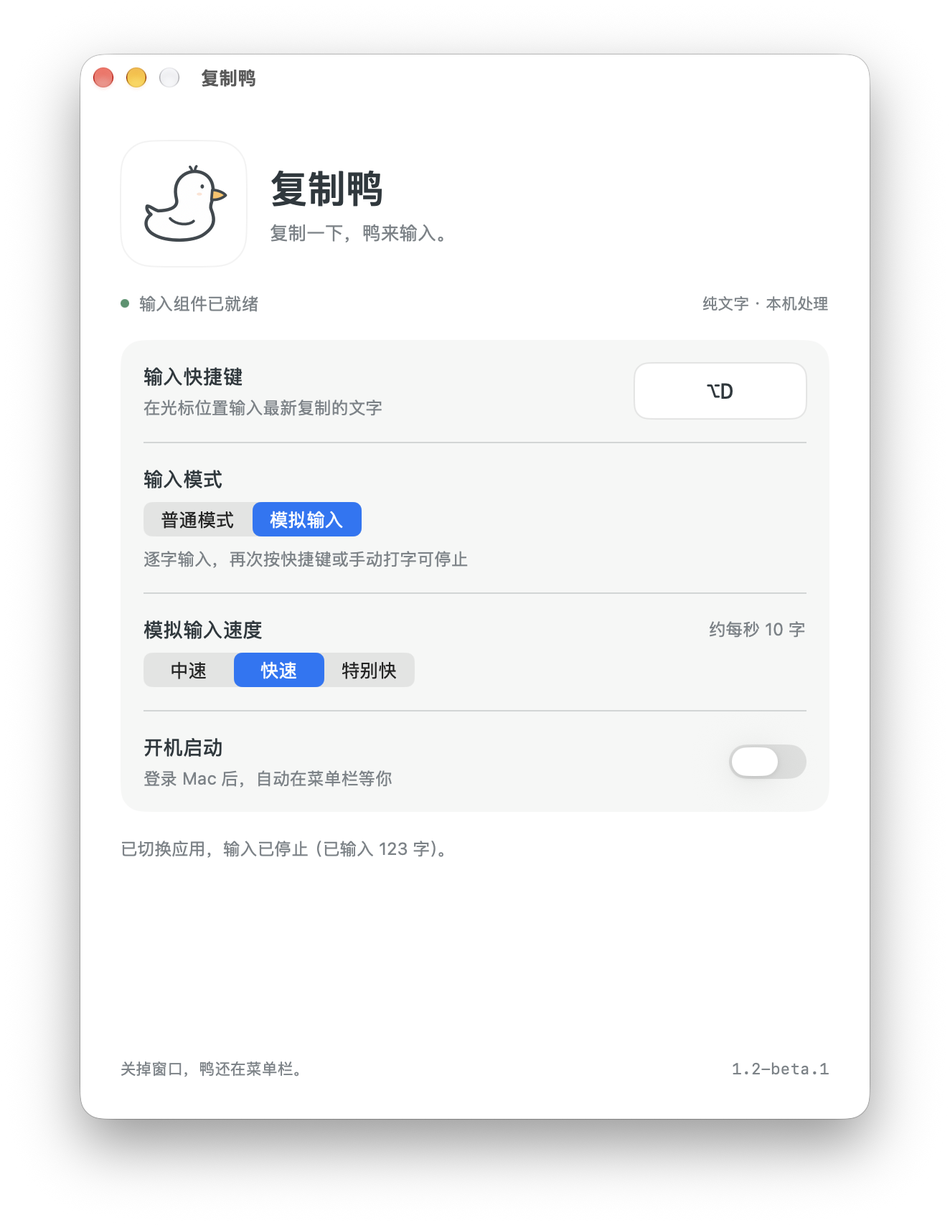
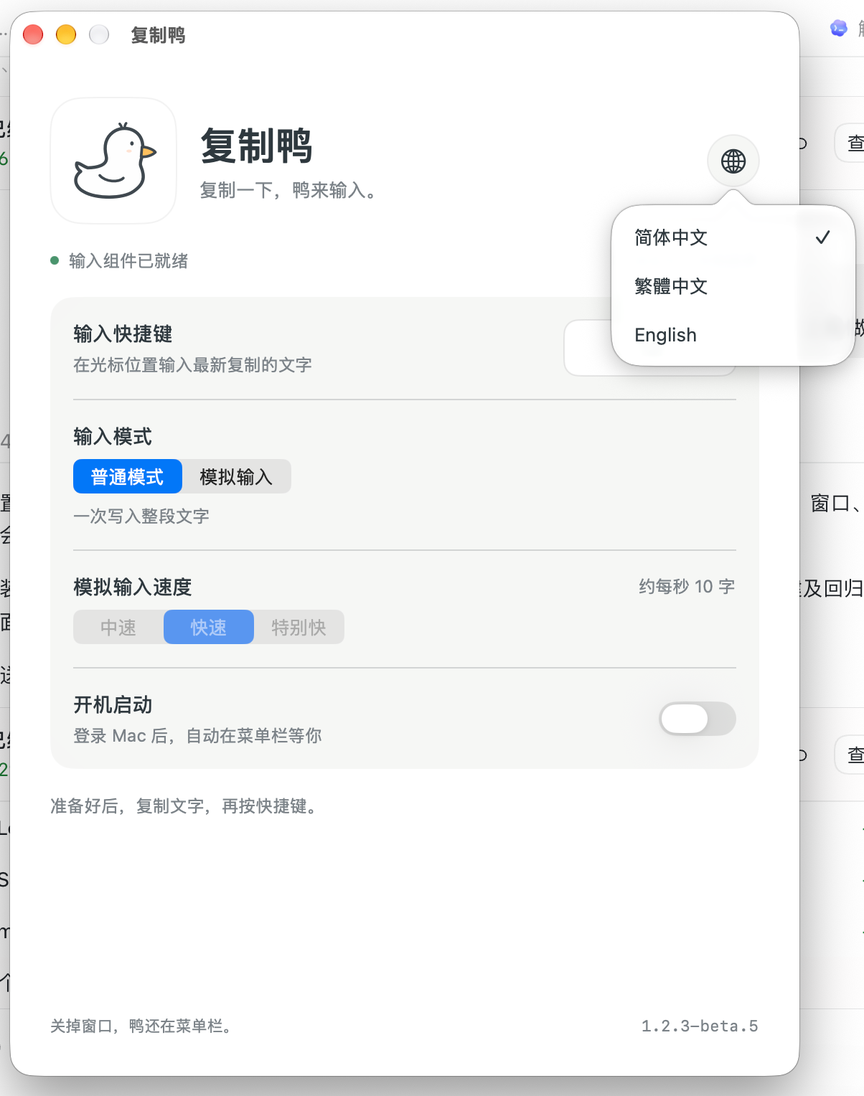
Release CopyDuck 1.2.3

diff --git a/docs/en/index.html b/docs/en/index.html
@@ -6,15 +6,19 @@
 <link rel="canonical" href="https://yuanruoyu515.github.io/CopyDuck/en/index.html"><link rel="alternate" hreflang="zh-Hans" href="https://yuanruoyu515.github.io/CopyDuck/index.html"><link rel="alternate" hreflang="zh-Hant" href="https://yuanruoyu515.github.io/CopyDuck/zh-Hant/index.html"><link rel="alternate" hreflang="en" href="https://yuanruoyu515.github.io/CopyDuck/en/index.html"><link rel="icon" href="../assets/favicon.png"><link rel="stylesheet" href="../style.css"></head>
 <body><a class="skip" href="#main">Skip to content</a>
 <header><div class="top wrap"><a class="brand" href="../en/index.html"><img src="../assets/favicon.png" alt="" width="42" height="42">CopyDuck</a><nav class="language" aria-label="Choose language"><a href="../index.html" lang="zh-Hans" hreflang="zh-Hans">简体中文</a><a href="../zh-Hant/index.html" lang="zh-Hant" hreflang="zh-Hant">繁體中文</a><a href="../en/index.html" lang="en" hreflang="en" aria-current="page">English</a></nav></div></header>
-<main id="main" class="wrap"><aside class="compatibility-warning" role="note"><strong>⚠ Compatibility and resource usage warning</strong><p>Currently verified only on macOS 27.0.1. Compatibility with macOS versions earlier than 27 is not guaranteed. A user reported extremely high memory and CPU usage on macOS 26 with a version released before the startup fix; the newer version has not yet been verified on that system. If this occurs, quit CopyDuck; if it is unresponsive, end its process in Activity Monitor.</p></aside><section class="hero"><div><p class="eyebrow">A little duck for your Mac</p><h1>Copy it.<br>Let the duck type.</h1><p class="lead">💢 An input field blocks pasting or distinguishes pasted text from regular input, leaving you to type everything again?</p><p class="lead">🐤 CopyDuck is a lightweight macOS menu bar utility. Press a shortcut to insert plain text from your clipboard into the active input field through the system input method. It helps with some websites and apps that disable pasting or intercept paste shortcuts while still supporting system input methods, saving you from retyping long passages. It supports Chinese, English, line breaks and emoji. All text processing happens locally on your Mac, with no uploads or clipboard history.</p><div class="actions"><a class="button primary" href="https://github.com/yuanruoyu515/CopyDuck/releases/download/v1.2.2/CopyDuck-1.2.2-arm64.dmg">Download 1.2.2 <span aria-hidden="true">↓</span></a><a class="button" href="https://github.com/yuanruoyu515/CopyDuck">View source <span aria-hidden="true">↗</span></a></div><p class="compatibility">Apple Silicon · Minimum build target: macOS 14 · Verified only on macOS 27.0.1</p></div>
+<main id="main" class="wrap"><aside class="compatibility-warning" role="note"><strong>⚠ Compatibility and resource usage warning</strong><p>Currently verified only on macOS 27.0.1. Compatibility with macOS versions earlier than 27 is not guaranteed. A user reported extremely high memory and CPU usage on macOS 26 with a version released before the startup fix; the newer version has not yet been verified on that system. If this occurs, quit CopyDuck; if it is unresponsive, end its process in Activity Monitor.</p></aside><section class="hero"><div><p class="eyebrow">A little duck for your Mac</p><h1>Copy it.<br>Let the duck type.</h1><p class="lead">💢 An input field blocks pasting or distinguishes pasted text from regular input, leaving you to type everything again?</p><p class="lead">🐤 CopyDuck is a lightweight macOS menu bar utility. Press a shortcut to insert plain text from your clipboard into the active input field through the system input method. It helps with some websites and apps that disable pasting or intercept paste shortcuts while still supporting system input methods, saving you from retyping long passages. It supports Chinese, English, line breaks and emoji. All text processing happens locally on your Mac, with no uploads or clipboard history.</p><div class="actions"><a class="button primary" href="https://github.com/yuanruoyu515/CopyDuck/releases/download/v1.2.3/CopyDuck-1.2.3-arm64.dmg">Download 1.2.3 <span aria-hidden="true">↓</span></a><a class="button" href="https://github.com/yuanruoyu515/CopyDuck">View source <span aria-hidden="true">↗</span></a></div><p class="compatibility">Apple Silicon · Minimum build target: macOS 14 · Verified only on macOS 27.0.1</p></div>
 <div class="duck-stage"><div class="duck-card"><img src="../assets/duck.png" alt="" width="512" height="512" fetchpriority="high"></div><div class="shortcut"><span>Illustration · Default shortcut</span><div aria-label="Control Option V"><kbd>⌃</kbd> <kbd>⌥</kbd> <kbd>V</kbd></div></div><p class="example-text">Copy text → Click an input field → Press your shortcut</p></div></section>
 <section class="section"><div class="intro"><h2>💦 The inspiration</h2><p>The author was struggling to finish assignments in AP CSA when Albert was configured to block pasting. The workaround was to keep changing the input method’s text shortcuts to get the text into the field, bit by bit… That frustration led to CopyDuck.</p></div></section>
-<section class="section"><div class="intro"><h2>Give your clipboard an input method.</h2><p>CopyDuck appears under Simplified Chinese input sources. When you press the shortcut, it reads the latest clipboard text, temporarily selects its input source, inserts the whole text at once or types it character by character, then restores your previous input method. Copying something else while typing does not change the current request.</p></div><ol class="flow"><li><span class="number">01</span><h3>Copy</h3><p>Copy some plain text.</p></li><li><span class="number">02</span><h3>Focus</h3><p>Click where you want to type.</p></li><li><span class="number">03</span><h3>Insert</h3><p>Press your shortcut. Let the duck type.</p></li></ol><div class="features"><article><h3>Your shortcut</h3><p>Start with ⌃⌥V, or choose your own in Settings.</p></article><article><h3>A home in the menu bar</h3><p>No Dock icon. Closing Settings keeps the duck running.</p></article><article><h3>Optional launch at login</h3><p>Enable it when you want CopyDuck ready after login.</p></article><article><h3>Text stays on your Mac</h3><p>Reads the clipboard only when triggered. No history, no network connection.</p></article><article><h3>Simulated typing</h3><p>Switch between Normal and Simulated Typing in Settings or the menu bar. Medium, Fast and Very Fast average about 5, 10 and 20 characters per second, with pauses at punctuation and line breaks. Mode and speed are remembered; speed changes apply to the next request. Press the shortcut again, type manually or change input focus to stop. Text already entered is kept.</p></article><article><h3>Input reliability and resource cleanup</h3><p>Improve first-trigger behavior in Word and prevent unintended typing cancellation. Release the Settings view on close; clear text references, callbacks and scheduled tasks when input finishes or is cancelled.</p></article></div></section>
-<section class="section screenshots"><h2>A little duck, in real use.</h2><p class="intro">The Settings and menu bar screenshots were supplied by the maintainer while testing 1.2-beta.1 and show the new 1.2 features. The interface is in Simplified Chinese; ⌥D is a custom shortcut, while the default is ⌃⌥V.</p><div class="screenshot-grid"><figure class="screenshot"><a href="../assets/settings.png"><img src="../assets/settings.png" alt="Settings window" width="1324" height="1708" loading="lazy"></a><figcaption><h3>Settings window</h3><p>Switch input modes and choose Medium, Fast or Very Fast in Settings, alongside shortcut and launch-at-login options.</p></figcaption></figure><figure class="screenshot"><a href="../assets/input-sources.png"><img src="../assets/input-sources.png" alt="System input sources" width="1704" height="1474" loading="lazy"></a><figcaption><h3>System input sources</h3><p>CopyDuck appears in the list of installed system input sources.</p></figcaption></figure><figure class="screenshot"><a href="../assets/menu-bar.png"><img src="../assets/menu-bar.png" alt="Menu bar menu" width="948" height="528" loading="lazy"></a><figcaption><h3>Menu bar menu</h3><p>Open the duck menu to switch Normal / Simulated Typing and choose one of three speeds in the submenu.</p></figcaption></figure></div></section>
+<section class="section"><div class="intro"><h2>Give your clipboard an input method.</h2><p>CopyDuck appears under Simplified Chinese input sources. When you press the shortcut, it reads the latest clipboard text, temporarily selects its input source, inserts the whole text at once or types it character by character, then restores your previous input method. Copying something else while typing does not change the current request.</p></div><ol class="flow"><li><span class="number">01</span><h3>Copy</h3><p>Copy some plain text.</p></li><li><span class="number">02</span><h3>Focus</h3><p>Click where you want to type.</p></li><li><span class="number">03</span><h3>Insert</h3><p>Press your shortcut. Let the duck type.</p></li></ol><div class="features"><article><h3>Your shortcut</h3><p>Start with ⌃⌥V, or choose your own in Settings.</p></article><article><h3>A home in the menu bar</h3><p>No Dock icon. Closing Settings keeps the duck running.</p></article><article><h3>Optional launch at login</h3><p>Enable it when you want CopyDuck ready after login.</p></article><article><h3>Text stays on your Mac</h3><p>Reads the clipboard only when triggered. No history, no network connection.</p></article><article><h3>Simulated typing</h3><p>Switch between Normal and Simulated Typing in Settings or the menu bar. Medium, Fast and Very Fast average about 5, 10 and 20 characters per second, with pauses at punctuation and line breaks. Mode and speed are remembered; speed changes apply to the next request. Press the shortcut again, type manually or change input focus to stop. Text already entered is kept.</p></article><article><h3>Input reliability and resource cleanup</h3><p>Improve first-trigger behavior in Word and prevent unintended typing cancellation. Release the Settings view on close; clear text references, callbacks and scheduled tasks when input finishes or is cancelled.</p></article><article><h3>Three interface languages</h3><p>Use the globe in the top right of Settings to switch languages. Your choice is saved.</p></article></div></section>
+<section class="section screenshots"><h2>A little duck, in real use.</h2><p class="intro">The maintainer supplied the Settings screenshot while testing 1.2.3-beta.5; it shows the language switcher in the top right. The other screenshots are from 1.2-beta.1. ⌥D is a custom shortcut; the default is ⌃⌥V.</p><div class="screenshot-grid"><figure class="screenshot"><a href="../assets/settings.png"><img src="../assets/settings.png" alt="Settings window" width="1204" height="1528" loading="lazy"></a><figcaption><h3>Settings window</h3><p>Click the globe in the top right to choose Simplified Chinese, Traditional Chinese or English. Settings also includes input mode, speed, shortcut and launch-at-login controls.</p></figcaption></figure><figure class="screenshot"><a href="../assets/input-sources.png"><img src="../assets/input-sources.png" alt="System input sources" width="1704" height="1474" loading="lazy"></a><figcaption><h3>System input sources</h3><p>CopyDuck appears in the list of installed system input sources.</p></figcaption></figure><figure class="screenshot"><a href="../assets/menu-bar.png"><img src="../assets/menu-bar.png" alt="Menu bar menu" width="948" height="528" loading="lazy"></a><figcaption><h3>Menu bar menu</h3><p>Open the duck menu to switch Normal / Simulated Typing and choose one of three speeds in the submenu.</p></figcaption></figure></div></section>
 <section class="section install"><div><h2>Three steps to get started.</h2><p>Apple Silicon · Minimum build target: macOS 14 · Verified only on macOS 27.0.1</p></div><div><ol><li>Download the DMG and drag “复制鸭” into Applications.</li><li>Open CopyDuck and click &quot;Install input component&quot; on first use.</li><li>Once &quot;Input component ready&quot; appears, copy text, focus a field and press your shortcut.</li></ol><p class="install-note">Opening a newer build automatically updates and starts the input component, preserving your shortcut and launch-at-login setting.</p></div></section>
-<section class="section" id="downloads"><h2>Latest and previous versions.</h2><p class="intro">1.2.2 fixes startup process failures and repeated launches that cause excessive resource usage, and fixes Settings failing to open. 1.2.1 improves first-trigger behavior in Word, prevents unintended input cancellation, and strengthens resource cleanup when cancelling input or closing Settings. 1.2 adds Normal / Simulated Typing and three speeds; 1.1 fixes component startup and centers the icons; 1.0 preserves the original feature release.</p><div class="releases"><article class="release current">
-      <header><h3>1.2.2</h3><span class="badge">Recommended</span></header>
-      <a class="button primary" href="https://github.com/yuanruoyu515/CopyDuck/releases/download/v1.2.2/CopyDuck-1.2.2-arm64.dmg">DMG <span aria-hidden="true">↓</span></a>
+<section class="section" id="downloads"><h2>Latest and previous versions.</h2><p class="intro">1.2.3 fixes intermittent input failures after automatic input-method switching in Safari, filters repeated shortcut presses while the key is held, and adds Simplified Chinese, Traditional Chinese and English interfaces. 1.2.2 fixes startup process failures and repeated launches that cause excessive resource usage, and fixes Settings failing to open. 1.2.1 improves first-trigger behavior in Word, prevents unintended input cancellation, and strengthens resource cleanup when cancelling input or closing Settings. 1.2 adds Normal / Simulated Typing and three speeds; 1.1 fixes component startup and centers the icons; 1.0 preserves the original feature release.</p><div class="releases"><article class="release current">
+      <header><h3>1.2.3</h3><span class="badge">Recommended</span></header>
+      <a class="button primary" href="https://github.com/yuanruoyu515/CopyDuck/releases/download/v1.2.3/CopyDuck-1.2.3-arm64.dmg">DMG <span aria-hidden="true">↓</span></a>
+      <div class="release-links"><a href="https://github.com/yuanruoyu515/CopyDuck/releases/download/v1.2.3/CopyDuck-1.2.3-arm64.app.zip">App ZIP</a><a href="https://github.com/yuanruoyu515/CopyDuck/releases/tag/v1.2.3">Release notes</a></div>
+    </article><article class="release">
+      <header><h3>1.2.2</h3><span class="badge">Previous release</span></header>
+      <a class="button" href="https://github.com/yuanruoyu515/CopyDuck/releases/download/v1.2.2/CopyDuck-1.2.2-arm64.dmg">DMG <span aria-hidden="true">↓</span></a>
       <div class="release-links"><a href="https://github.com/yuanruoyu515/CopyDuck/releases/download/v1.2.2/CopyDuck-1.2.2-arm64.app.zip">App ZIP</a><a href="https://github.com/yuanruoyu515/CopyDuck/releases/tag/v1.2.2">Release notes</a></div>
     </article><article class="release">
       <header><h3>1.2.1</h3><span class="badge">Previous release</span></header>

diff --git a/docs/zh-Hant/index.html b/docs/zh-Hant/index.html
@@ -6,15 +6,19 @@
 <link rel="canonical" href="https://yuanruoyu515.github.io/CopyDuck/zh-Hant/index.html"><link rel="alternate" hreflang="zh-Hans" href="https://yuanruoyu515.github.io/CopyDuck/index.html"><link rel="alternate" hreflang="zh-Hant" href="https://yuanruoyu515.github.io/CopyDuck/zh-Hant/index.html"><link rel="alternate" hreflang="en" href="https://yuanruoyu515.github.io/CopyDuck/en/index.html"><link rel="icon" href="../assets/favicon.png"><link rel="stylesheet" href="../style.css"></head>
 <body><a class="skip" href="#main">跳至主要內容</a>
 <header><div class="top wrap"><a class="brand" href="../zh-Hant/index.html"><img src="../assets/favicon.png" alt="" width="42" height="42">複製鴨</a><nav class="language" aria-label="選擇語言"><a href="../index.html" lang="zh-Hans" hreflang="zh-Hans">简体中文</a><a href="../zh-Hant/index.html" lang="zh-Hant" hreflang="zh-Hant" aria-current="page">繁體中文</a><a href="../en/index.html" lang="en" hreflang="en">English</a></nav></div></header>
-<main id="main" class="wrap"><aside class="compatibility-warning" role="note"><strong>⚠ 相容性與資源占用提醒</strong><p>目前僅在 macOS 27.0.1 上驗證，不保證 macOS 27 以下版本可用。已有使用者回報：修復前版本在 macOS 26 上出現記憶體與 CPU 使用量異常飆升；新版在該系統上的表現仍待驗證。如遇異常，請立即結束複製鴨；無法結束時，可在「活動監視器」中結束 CopyDuck 程序。</p></aside><section class="hero"><div><p class="eyebrow">給 Mac 的小鴨子</p><h1>複製一下，<br>鴨來輸入。</h1><p class="lead">💢 輸入框不讓貼上，或是會區分貼上與一般輸入，讓你只能重新手打一遍？</p><p class="lead">🐤 複製鴨（CopyDuck）是一款輕量的 macOS 選單列工具：按下快捷鍵，就能透過系統輸入法，將剪貼簿中的純文字直接輸入目前的輸入框。它適用於部分停用貼上、攔截貼上快捷鍵，但仍支援系統輸入法的網頁和應用程式，減少重複輸入長段文字的麻煩。支援中文、英文、換行和表情，文字處理全程在本機完成，不上傳內容，也不儲存剪貼簿歷史。</p><div class="actions"><a class="button primary" href="https://github.com/yuanruoyu515/CopyDuck/releases/download/v1.2.2/CopyDuck-1.2.2-arm64.dmg">下載 1.2.2 <span aria-hidden="true">↓</span></a><a class="button" href="https://github.com/yuanruoyu515/CopyDuck">檢視原始碼 <span aria-hidden="true">↗</span></a></div><p class="compatibility">Apple Silicon · 建置最低版本 macOS 14 · 僅在 macOS 27.0.1 上驗證</p></div>
+<main id="main" class="wrap"><aside class="compatibility-warning" role="note"><strong>⚠ 相容性與資源占用提醒</strong><p>目前僅在 macOS 27.0.1 上驗證，不保證 macOS 27 以下版本可用。已有使用者回報：修復前版本在 macOS 26 上出現記憶體與 CPU 使用量異常飆升；新版在該系統上的表現仍待驗證。如遇異常，請立即結束複製鴨；無法結束時，可在「活動監視器」中結束 CopyDuck 程序。</p></aside><section class="hero"><div><p class="eyebrow">給 Mac 的小鴨子</p><h1>複製一下，<br>鴨來輸入。</h1><p class="lead">💢 輸入框不讓貼上，或是會區分貼上與一般輸入，讓你只能重新手打一遍？</p><p class="lead">🐤 複製鴨（CopyDuck）是一款輕量的 macOS 選單列工具：按下快捷鍵，就能透過系統輸入法，將剪貼簿中的純文字直接輸入目前的輸入框。它適用於部分停用貼上、攔截貼上快捷鍵，但仍支援系統輸入法的網頁和應用程式，減少重複輸入長段文字的麻煩。支援中文、英文、換行和表情，文字處理全程在本機完成，不上傳內容，也不儲存剪貼簿歷史。</p><div class="actions"><a class="button primary" href="https://github.com/yuanruoyu515/CopyDuck/releases/download/v1.2.3/CopyDuck-1.2.3-arm64.dmg">下載 1.2.3 <span aria-hidden="true">↓</span></a><a class="button" href="https://github.com/yuanruoyu515/CopyDuck">檢視原始碼 <span aria-hidden="true">↗</span></a></div><p class="compatibility">Apple Silicon · 建置最低版本 macOS 14 · 僅在 macOS 27.0.1 上驗證</p></div>
 <div class="duck-stage"><div class="duck-card"><img src="../assets/duck.png" alt="" width="512" height="512" fetchpriority="high"></div><div class="shortcut"><span>使用示意 · 預設快捷鍵</span><div aria-label="Control Option V"><kbd>⌃</kbd> <kbd>⌥</kbd> <kbd>V</kbd></div></div><p class="example-text">複製文字 → 點選輸入位置 → 按下快捷鍵</p></div></section>
 <section class="section"><div class="intro"><h2>💦 靈感來源</h2><p>作者上 AP CSA 課時趕不完作業，偏偏 Albert 又被設定成不能貼上，只好反覆修改輸入法的快捷輸入詞，把文字一點一點塞進去……於是，就有了複製鴨。</p></div></section>
-<section class="section"><div class="intro"><h2>像輸入法一樣，把文字寫進去。</h2><p>複製鴨可以加入「簡體中文」輸入法列表。觸發快捷鍵時，它讀取最新剪貼簿、暫時切換輸入來源，依選取的模式一次寫入整段或逐字輸入，再恢復原本的輸入法。輸入途中複製其他文字不會改變本次內容。</p></div><ol class="flow"><li><span class="number">01</span><h3>複製</h3><p>複製一段純文字。</p></li><li><span class="number">02</span><h3>定位</h3><p>點選要輸入文字的位置。</p></li><li><span class="number">03</span><h3>輸入</h3><p>按下快捷鍵，鴨來寫進去。</p></li></ol><div class="features"><article><h3>你的快捷鍵</h3><p>預設 ⌃⌥V，也可以在設定中換成順手的組合。</p></article><article><h3>待在選單列</h3><p>不占 Dock；關閉設定視窗，仍在背景等你。</p></article><article><h3>登入時啟動可選</h3><p>需要時開啟，登入 Mac 後自動執行。</p></article><article><h3>文字留在本機</h3><p>按快捷鍵時才讀取剪貼簿，不儲存歷史，不連接網路。</p></article><article><h3>模擬輸入</h3><p>在設定或選單列切換一般模式／模擬輸入。中速、快速、特別快約為每秒 5、10、20 字，標點與換行稍作停頓。會記住模式和速度；速度調整從下次輸入生效。再次按快捷鍵、手動打字或切換輸入位置即可停止，已輸入的文字會保留。</p></article><article><h3>輸入穩定與資源清理</h3><p>改善 Word 首次觸發與模擬輸入誤停。關閉設定時釋放介面；輸入結束或取消後清理文字參照、回呼與計時任務。</p></article></div></section>
-<section class="section screenshots"><h2>真實介面，輕巧直觀。</h2><p class="intro">設定視窗與選單列截圖由維護者試用 1.2-beta.1 時提供，展示 1.2 新增功能。介面為簡體中文；⌥D 是自訂快捷鍵，預設為 ⌃⌥V。</p><div class="screenshot-grid"><figure class="screenshot"><a href="../assets/settings.png"><img src="../assets/settings.png" alt="設定視窗" width="1324" height="1708" loading="lazy"></a><figcaption><h3>設定視窗</h3><p>在設定中切換輸入模式，選擇中速、快速或特別快，並調整快捷鍵與登入時啟動。</p></figcaption></figure><figure class="screenshot"><a href="../assets/input-sources.png"><img src="../assets/input-sources.png" alt="系統輸入法列表" width="1704" height="1474" loading="lazy"></a><figcaption><h3>系統輸入法列表</h3><p>複製鴨以系統輸入法顯示於已安裝列表中。</p></figcaption></figure><figure class="screenshot"><a href="../assets/menu-bar.png"><img src="../assets/menu-bar.png" alt="選單列選單" width="948" height="528" loading="lazy"></a><figcaption><h3>選單列選單</h3><p>點開選單列小鴨子，即可切換一般模式／模擬輸入，並在子選單選擇三段速度。</p></figcaption></figure></div></section>
+<section class="section"><div class="intro"><h2>像輸入法一樣，把文字寫進去。</h2><p>複製鴨可以加入「簡體中文」輸入法列表。觸發快捷鍵時，它讀取最新剪貼簿、暫時切換輸入來源，依選取的模式一次寫入整段或逐字輸入，再恢復原本的輸入法。輸入途中複製其他文字不會改變本次內容。</p></div><ol class="flow"><li><span class="number">01</span><h3>複製</h3><p>複製一段純文字。</p></li><li><span class="number">02</span><h3>定位</h3><p>點選要輸入文字的位置。</p></li><li><span class="number">03</span><h3>輸入</h3><p>按下快捷鍵，鴨來寫進去。</p></li></ol><div class="features"><article><h3>你的快捷鍵</h3><p>預設 ⌃⌥V，也可以在設定中換成順手的組合。</p></article><article><h3>待在選單列</h3><p>不占 Dock；關閉設定視窗，仍在背景等你。</p></article><article><h3>登入時啟動可選</h3><p>需要時開啟，登入 Mac 後自動執行。</p></article><article><h3>文字留在本機</h3><p>按快捷鍵時才讀取剪貼簿，不儲存歷史，不連接網路。</p></article><article><h3>模擬輸入</h3><p>在設定或選單列切換一般模式／模擬輸入。中速、快速、特別快約為每秒 5、10、20 字，標點與換行稍作停頓。會記住模式和速度；速度調整從下次輸入生效。再次按快捷鍵、手動打字或切換輸入位置即可停止，已輸入的文字會保留。</p></article><article><h3>輸入穩定與資源清理</h3><p>改善 Word 首次觸發與模擬輸入誤停。關閉設定時釋放介面；輸入結束或取消後清理文字參照、回呼與計時任務。</p></article><article><h3>三語介面</h3><p>點選設定視窗右上角的地球圖示切換語言，選擇會自動儲存。</p></article></div></section>
+<section class="section screenshots"><h2>真實介面，輕巧直觀。</h2><p class="intro">設定視窗截圖由維護者試用 1.2.3-beta.5 時提供，展示右上角的語言切換；其餘截圖來自 1.2-beta.1。⌥D 是自訂快捷鍵，預設為 ⌃⌥V。</p><div class="screenshot-grid"><figure class="screenshot"><a href="../assets/settings.png"><img src="../assets/settings.png" alt="設定視窗" width="1204" height="1528" loading="lazy"></a><figcaption><h3>設定視窗</h3><p>點選右上角地球圖示，可切換简体中文、繁體中文或 English；也可調整輸入模式、速度、快速鍵及登入時啟動。</p></figcaption></figure><figure class="screenshot"><a href="../assets/input-sources.png"><img src="../assets/input-sources.png" alt="系統輸入法列表" width="1704" height="1474" loading="lazy"></a><figcaption><h3>系統輸入法列表</h3><p>複製鴨以系統輸入法顯示於已安裝列表中。</p></figcaption></figure><figure class="screenshot"><a href="../assets/menu-bar.png"><img src="../assets/menu-bar.png" alt="選單列選單" width="948" height="528" loading="lazy"></a><figcaption><h3>選單列選單</h3><p>點開選單列小鴨子，即可切換一般模式／模擬輸入，並在子選單選擇三段速度。</p></figcaption></figure></div></section>
 <section class="section install"><div><h2>第一次安裝，三步就好。</h2><p>Apple Silicon · 建置最低版本 macOS 14 · 僅在 macOS 27.0.1 上驗證</p></div><div><ol><li>下載 DMG，把「复制鸭」拖進「應用程式」。</li><li>開啟複製鴨，首次點選「安装输入组件」。</li><li>看到「输入组件已就绪」後，複製文字，再到輸入框按快捷鍵。</li></ol><p class="install-note">開啟新版會自動更新並啟動輸入元件，保留原快捷鍵與登入時啟動設定。</p></div></section>
-<section class="section" id="downloads"><h2>新版與歷史版本。</h2><p class="intro">1.2.2 修復程序無法正確執行、重複啟動造成大量資源占用的問題，並修復設定視窗無法正常開啟。 1.2.1 改善 Word 首次觸發與輸入誤停，強化取消任務與關閉設定時的記憶體清理。1.2 新增一般模式／模擬輸入切換與三段打字速度；1.1 修復元件自動啟動並調整圖示；1.0 保留最初的功能版本。</p><div class="releases"><article class="release current">
-      <header><h3>1.2.2</h3><span class="badge">推薦</span></header>
-      <a class="button primary" href="https://github.com/yuanruoyu515/CopyDuck/releases/download/v1.2.2/CopyDuck-1.2.2-arm64.dmg">DMG <span aria-hidden="true">↓</span></a>
+<section class="section" id="downloads"><h2>新版與歷史版本。</h2><p class="intro">1.2.3 修復 Safari 自動切換輸入法後偶爾無法輸入的問題，過濾按住快速鍵時的重複觸發，並新增簡體中文、繁體中文和 English 介面。 1.2.2 修復程序無法正確執行、重複啟動造成大量資源占用的問題，並修復設定視窗無法正常開啟。 1.2.1 改善 Word 首次觸發與輸入誤停，強化取消任務與關閉設定時的記憶體清理。1.2 新增一般模式／模擬輸入切換與三段打字速度；1.1 修復元件自動啟動並調整圖示；1.0 保留最初的功能版本。</p><div class="releases"><article class="release current">
+      <header><h3>1.2.3</h3><span class="badge">推薦</span></header>
+      <a class="button primary" href="https://github.com/yuanruoyu515/CopyDuck/releases/download/v1.2.3/CopyDuck-1.2.3-arm64.dmg">DMG <span aria-hidden="true">↓</span></a>
+      <div class="release-links"><a href="https://github.com/yuanruoyu515/CopyDuck/releases/download/v1.2.3/CopyDuck-1.2.3-arm64.app.zip">App 壓縮檔</a><a href="https://github.com/yuanruoyu515/CopyDuck/releases/tag/v1.2.3">版本說明</a></div>
+    </article><article class="release">
+      <header><h3>1.2.2</h3><span class="badge">歷史版本</span></header>
+      <a class="button" href="https://github.com/yuanruoyu515/CopyDuck/releases/download/v1.2.2/CopyDuck-1.2.2-arm64.dmg">DMG <span aria-hidden="true">↓</span></a>
       <div class="release-links"><a href="https://github.com/yuanruoyu515/CopyDuck/releases/download/v1.2.2/CopyDuck-1.2.2-arm64.app.zip">App 壓縮檔</a><a href="https://github.com/yuanruoyu515/CopyDuck/releases/tag/v1.2.2">版本說明</a></div>
     </article><article class="release">
       <header><h3>1.2.1</h3><span class="badge">歷史版本</span></header>

diff --git a/docs/index.html b/docs/index.html
@@ -6,15 +6,19 @@
 <link rel="canonical" href="https://yuanruoyu515.github.io/CopyDuck/index.html"><link rel="alternate" hreflang="zh-Hans" href="https://yuanruoyu515.github.io/CopyDuck/index.html"><link rel="alternate" hreflang="zh-Hant" href="https://yuanruoyu515.github.io/CopyDuck/zh-Hant/index.html"><link rel="alternate" hreflang="en" href="https://yuanruoyu515.github.io/CopyDuck/en/index.html"><link rel="icon" href="assets/favicon.png"><link rel="stylesheet" href="style.css"></head>
 <body><a class="skip" href="#main">跳到主要内容</a>
 <header><div class="top wrap"><a class="brand" href="index.html"><img src="assets/favicon.png" alt="" width="42" height="42">复制鸭</a><nav class="language" aria-label="选择语言"><a href="index.html" lang="zh-Hans" hreflang="zh-Hans" aria-current="page">简体中文</a><a href="zh-Hant/index.html" lang="zh-Hant" hreflang="zh-Hant">繁體中文</a><a href="en/index.html" lang="en" hreflang="en">English</a></nav></div></header>
-<main id="main" class="wrap"><aside class="compatibility-warning" role="note"><strong>⚠ 兼容性与资源占用提醒</strong><p>目前仅在 macOS 27.0.1 上验证，不保证 macOS 27 以下版本可用。已有用户反馈：修复前版本在 macOS 26 上出现内存与 CPU 占用异常飙升；新版在该系统上的表现仍待验证。如遇异常，请立即退出复制鸭；无法退出时，可在活动监视器中结束 CopyDuck 进程。</p></aside><section class="hero"><div><p class="eyebrow">给 Mac 的小鸭子</p><h1>复制一下，<br>鸭来输入。</h1><p class="lead">💢 输入框不让粘贴，或者会区分粘贴与正常输入，让你只能重新手打一遍？</p><p class="lead">🐤 复制鸭（CopyDuck）是一款轻量的 macOS 菜单栏工具：按下快捷键，就能通过系统输入法，将剪贴板中的纯文字直接输入当前输入框。它适用于部分禁用粘贴、拦截粘贴快捷键，但仍支持系统输入法的网页和应用，减少重复录入长段文字的麻烦。支持中文、英文、换行和表情，文字处理全程在本机完成，不上传内容，也不保存剪贴板历史。</p><div class="actions"><a class="button primary" href="https://github.com/yuanruoyu515/CopyDuck/releases/download/v1.2.2/CopyDuck-1.2.2-arm64.dmg">下载 1.2.2 <span aria-hidden="true">↓</span></a><a class="button" href="https://github.com/yuanruoyu515/CopyDuck">查看源码 <span aria-hidden="true">↗</span></a></div><p class="compatibility">Apple Silicon · 构建最低版本 macOS 14 · 仅在 macOS 27.0.1 上验证</p></div>
+<main id="main" class="wrap"><aside class="compatibility-warning" role="note"><strong>⚠ 兼容性与资源占用提醒</strong><p>目前仅在 macOS 27.0.1 上验证，不保证 macOS 27 以下版本可用。已有用户反馈：修复前版本在 macOS 26 上出现内存与 CPU 占用异常飙升；新版在该系统上的表现仍待验证。如遇异常，请立即退出复制鸭；无法退出时，可在活动监视器中结束 CopyDuck 进程。</p></aside><section class="hero"><div><p class="eyebrow">给 Mac 的小鸭子</p><h1>复制一下，<br>鸭来输入。</h1><p class="lead">💢 输入框不让粘贴，或者会区分粘贴与正常输入，让你只能重新手打一遍？</p><p class="lead">🐤 复制鸭（CopyDuck）是一款轻量的 macOS 菜单栏工具：按下快捷键，就能通过系统输入法，将剪贴板中的纯文字直接输入当前输入框。它适用于部分禁用粘贴、拦截粘贴快捷键，但仍支持系统输入法的网页和应用，减少重复录入长段文字的麻烦。支持中文、英文、换行和表情，文字处理全程在本机完成，不上传内容，也不保存剪贴板历史。</p><div class="actions"><a class="button primary" href="https://github.com/yuanruoyu515/CopyDuck/releases/download/v1.2.3/CopyDuck-1.2.3-arm64.dmg">下载 1.2.3 <span aria-hidden="true">↓</span></a><a class="button" href="https://github.com/yuanruoyu515/CopyDuck">查看源码 <span aria-hidden="true">↗</span></a></div><p class="compatibility">Apple Silicon · 构建最低版本 macOS 14 · 仅在 macOS 27.0.1 上验证</p></div>
 <div class="duck-stage"><div class="duck-card"><img src="assets/duck.png" alt="" width="512" height="512" fetchpriority="high"></div><div class="shortcut"><span>使用示意 · 默认快捷键</span><div aria-label="Control Option V"><kbd>⌃</kbd> <kbd>⌥</kbd> <kbd>V</kbd></div></div><p class="example-text">复制文字 → 点击输入位置 → 按下快捷键</p></div></section>
 <section class="section"><div class="intro"><h2>💦 灵感来源</h2><p>作者在上 AP CSA 课时赶不完作业，偏偏 Albert 又被设置成不能粘贴，只好反复修改输入法的快捷输入词，把文字一点点塞进去……于是，就有了复制鸭。</p></div></section>
-<section class="section"><div class="intro"><h2>像输入法一样，把文字写进去。</h2><p>复制鸭可以添加到“简体中文”输入法列表。触发快捷键时，它读取最新剪贴板、临时切换输入源，按所选模式一次写入整段或逐字输入，再恢复你原来的输入法。输入途中复制其他文字不会改变本次内容。</p></div><ol class="flow"><li><span class="number">01</span><h3>复制</h3><p>复制一段纯文字。</p></li><li><span class="number">02</span><h3>定位</h3><p>点击要输入文字的位置。</p></li><li><span class="number">03</span><h3>输入</h3><p>按下快捷键，鸭来写进去。</p></li></ol><div class="features"><article><h3>你的快捷键</h3><p>默认 ⌃⌥V，也可以在设置中换成顺手的组合。</p></article><article><h3>待在菜单栏</h3><p>不占 Dock；关掉设置窗口，仍在后台等你。</p></article><article><h3>开机启动可选</h3><p>需要时开启，登录 Mac 后自动运行。</p></article><article><h3>文字留在本机</h3><p>按快捷键时才读取剪贴板，不保存历史，不连接网络。</p></article><article><h3>模拟输入</h3><p>在设置或菜单栏切换普通模式／模拟输入。中速、快速、特别快约为每秒 5、10、20 字，标点和换行稍作停顿。模式和速度会记住；速度调整从下次输入生效。再次按快捷键、手动打字或切换输入位置可停止，已输入的文字会保留。</p></article><article><h3>输入稳定与资源清理</h3><p>改善 Word 首次触发和模拟输入误停。关闭设置时释放界面；输入结束或取消后清理文字引用、回调和定时任务。</p></article></div></section>
-<section class="section screenshots"><h2>真实界面，轻巧直观。</h2><p class="intro">设置窗口和菜单栏截图由维护者试用 1.2-beta.1 时提供，展示 1.2 新增功能。界面为简体中文；⌥D 是自定义快捷键，默认是 ⌃⌥V。</p><div class="screenshot-grid"><figure class="screenshot"><a href="assets/settings.png"><img src="assets/settings.png" alt="设置窗口" width="1324" height="1708" loading="lazy"></a><figcaption><h3>设置窗口</h3><p>在设置中切换输入模式，选择中速、快速或特别快，并调整快捷键和开机启动。</p></figcaption></figure><figure class="screenshot"><a href="assets/input-sources.png"><img src="assets/input-sources.png" alt="系统输入法列表" width="1704" height="1474" loading="lazy"></a><figcaption><h3>系统输入法列表</h3><p>复制鸭作为系统输入法出现在已安装列表中。</p></figcaption></figure><figure class="screenshot"><a href="assets/menu-bar.png"><img src="assets/menu-bar.png" alt="菜单栏菜单" width="948" height="528" loading="lazy"></a><figcaption><h3>菜单栏菜单</h3><p>点开菜单栏小鸭子，即可切换普通模式／模拟输入，并在子菜单选择三档速度。</p></figcaption></figure></div></section>
+<section class="section"><div class="intro"><h2>像输入法一样，把文字写进去。</h2><p>复制鸭可以添加到“简体中文”输入法列表。触发快捷键时，它读取最新剪贴板、临时切换输入源，按所选模式一次写入整段或逐字输入，再恢复你原来的输入法。输入途中复制其他文字不会改变本次内容。</p></div><ol class="flow"><li><span class="number">01</span><h3>复制</h3><p>复制一段纯文字。</p></li><li><span class="number">02</span><h3>定位</h3><p>点击要输入文字的位置。</p></li><li><span class="number">03</span><h3>输入</h3><p>按下快捷键，鸭来写进去。</p></li></ol><div class="features"><article><h3>你的快捷键</h3><p>默认 ⌃⌥V，也可以在设置中换成顺手的组合。</p></article><article><h3>待在菜单栏</h3><p>不占 Dock；关掉设置窗口，仍在后台等你。</p></article><article><h3>开机启动可选</h3><p>需要时开启，登录 Mac 后自动运行。</p></article><article><h3>文字留在本机</h3><p>按快捷键时才读取剪贴板，不保存历史，不连接网络。</p></article><article><h3>模拟输入</h3><p>在设置或菜单栏切换普通模式／模拟输入。中速、快速、特别快约为每秒 5、10、20 字，标点和换行稍作停顿。模式和速度会记住；速度调整从下次输入生效。再次按快捷键、手动打字或切换输入位置可停止，已输入的文字会保留。</p></article><article><h3>输入稳定与资源清理</h3><p>改善 Word 首次触发和模拟输入误停。关闭设置时释放界面；输入结束或取消后清理文字引用、回调和定时任务。</p></article><article><h3>三语界面</h3><p>点击设置窗口右上角的地球图标切换语言，选择会自动保存。</p></article></div></section>
+<section class="section screenshots"><h2>真实界面，轻巧直观。</h2><p class="intro">设置窗口截图由维护者试用 1.2.3-beta.5 时提供，展示右上角的语言切换；其余截图来自 1.2-beta.1。⌥D 是自定义快捷键，默认是 ⌃⌥V。</p><div class="screenshot-grid"><figure class="screenshot"><a href="assets/settings.png"><img src="assets/settings.png" alt="设置窗口" width="1204" height="1528" loading="lazy"></a><figcaption><h3>设置窗口</h3><p>点击右上角地球图标，可切换简体中文、繁體中文或 English；也可调整输入模式、速度、快捷键和开机启动。</p></figcaption></figure><figure class="screenshot"><a href="assets/input-sources.png"><img src="assets/input-sources.png" alt="系统输入法列表" width="1704" height="1474" loading="lazy"></a><figcaption><h3>系统输入法列表</h3><p>复制鸭作为系统输入法出现在已安装列表中。</p></figcaption></figure><figure class="screenshot"><a href="assets/menu-bar.png"><img src="assets/menu-bar.png" alt="菜单栏菜单" width="948" height="528" loading="lazy"></a><figcaption><h3>菜单栏菜单</h3><p>点开菜单栏小鸭子，即可切换普通模式／模拟输入，并在子菜单选择三档速度。</p></figcaption></figure></div></section>
 <section class="section install"><div><h2>第一次安装，三步就好。</h2><p>Apple Silicon · 构建最低版本 macOS 14 · 仅在 macOS 27.0.1 上验证</p></div><div><ol><li>下载 DMG，把“复制鸭”拖进“应用程序”。</li><li>打开复制鸭，首次点击“安装输入组件”。</li><li>看到“输入组件已就绪”后，复制文字，再到输入框按快捷键。</li></ol><p class="install-note">打开新版会自动更新并启动输入组件，保留原快捷键和开机启动设置。</p></div></section>
-<section class="section" id="downloads"><h2>新版与历史版本。</h2><p class="intro">1.2.2 修复进程无法正确运行、重复启动造成大量资源占用的问题，并修复设置窗口无法正常打开。 1.2.1 改善 Word 首次触发和输入误停，强化取消任务与关闭设置时的内存清理。1.2 增加普通模式／模拟输入切换和三档打字速度；1.1 修复组件自动启动并调整图标；1.0 保留最初的功能版本。</p><div class="releases"><article class="release current">
-      <header><h3>1.2.2</h3><span class="badge">推荐</span></header>
-      <a class="button primary" href="https://github.com/yuanruoyu515/CopyDuck/releases/download/v1.2.2/CopyDuck-1.2.2-arm64.dmg">DMG <span aria-hidden="true">↓</span></a>
+<section class="section" id="downloads"><h2>新版与历史版本。</h2><p class="intro">1.2.3 修复 Safari 自动切换输入法后偶尔无法输入的问题，过滤按住快捷键时的重复触发，并新增简体中文、繁體中文和 English 界面。 1.2.2 修复进程无法正确运行、重复启动造成大量资源占用的问题，并修复设置窗口无法正常打开。 1.2.1 改善 Word 首次触发和输入误停，强化取消任务与关闭设置时的内存清理。1.2 增加普通模式／模拟输入切换和三档打字速度；1.1 修复组件自动启动并调整图标；1.0 保留最初的功能版本。</p><div class="releases"><article class="release current">
+      <header><h3>1.2.3</h3><span class="badge">推荐</span></header>
+      <a class="button primary" href="https://github.com/yuanruoyu515/CopyDuck/releases/download/v1.2.3/CopyDuck-1.2.3-arm64.dmg">DMG <span aria-hidden="true">↓</span></a>
+      <div class="release-links"><a href="https://github.com/yuanruoyu515/CopyDuck/releases/download/v1.2.3/CopyDuck-1.2.3-arm64.app.zip">App 压缩包</a><a href="https://github.com/yuanruoyu515/CopyDuck/releases/tag/v1.2.3">发布说明</a></div>
+    </article><article class="release">
+      <header><h3>1.2.2</h3><span class="badge">历史版本</span></header>
+      <a class="button" href="https://github.com/yuanruoyu515/CopyDuck/releases/download/v1.2.2/CopyDuck-1.2.2-arm64.dmg">DMG <span aria-hidden="true">↓</span></a>
       <div class="release-links"><a href="https://github.com/yuanruoyu515/CopyDuck/releases/download/v1.2.2/CopyDuck-1.2.2-arm64.app.zip">App 压缩包</a><a href="https://github.com/yuanruoyu515/CopyDuck/releases/tag/v1.2.2">发布说明</a></div>
     </article><article class="release">
       <header><h3>1.2.1</h3><span class="badge">历史版本</span></header>

diff --git a/README.en.md b/README.en.md
@@ -26,6 +26,7 @@ Apple Silicon · Minimum build target: macOS 14 · Verified only on macOS 27.0.1
 
 | Version | Download | Notes |
 | --- | --- | --- |
+| 1.2.3 | [DMG](https://github.com/yuanruoyu515/CopyDuck/releases/download/v1.2.3/CopyDuck-1.2.3-arm64.dmg) · [App ZIP](https://github.com/yuanruoyu515/CopyDuck/releases/download/v1.2.3/CopyDuck-1.2.3-arm64.app.zip) | [Release notes](https://github.com/yuanruoyu515/CopyDuck/releases/tag/v1.2.3) |
 | 1.2.2 | [DMG](https://github.com/yuanruoyu515/CopyDuck/releases/download/v1.2.2/CopyDuck-1.2.2-arm64.dmg) · [App ZIP](https://github.com/yuanruoyu515/CopyDuck/releases/download/v1.2.2/CopyDuck-1.2.2-arm64.app.zip) | [Release notes](https://github.com/yuanruoyu515/CopyDuck/releases/tag/v1.2.2) |
 | 1.2.1 | [DMG](https://github.com/yuanruoyu515/CopyDuck/releases/download/v1.2.1/CopyDuck-1.2.1-arm64.dmg) · [App ZIP](https://github.com/yuanruoyu515/CopyDuck/releases/download/v1.2.1/CopyDuck-1.2.1-arm64.app.zip) | [Release notes](https://github.com/yuanruoyu515/CopyDuck/releases/tag/v1.2.1) |
 | 1.2 | [DMG](https://github.com/yuanruoyu515/CopyDuck/releases/download/v1.2/CopyDuck-1.2-arm64.dmg) · [App ZIP](https://github.com/yuanruoyu515/CopyDuck/releases/download/v1.2/CopyDuck-1.2-arm64.app.zip) | [Release notes](https://github.com/yuanruoyu515/CopyDuck/releases/tag/v1.2) |
@@ -40,16 +41,17 @@ Apple Silicon · Minimum build target: macOS 14 · Verified only on macOS 27.0.1
 - **Text stays on your Mac**：Reads the clipboard only when triggered. No history, no network connection.
 - **Simulated typing**：Switch between Normal and Simulated Typing in Settings or the menu bar. Medium, Fast and Very Fast average about 5, 10 and 20 characters per second, with pauses at punctuation and line breaks. Mode and speed are remembered; speed changes apply to the next request. Press the shortcut again, type manually or change input focus to stop. Text already entered is kept.
 - **Input reliability and resource cleanup**：Improve first-trigger behavior in Word and prevent unintended typing cancellation. Release the Settings view on close; clear text references, callbacks and scheduled tasks when input finishes or is cancelled.
+- **Three interface languages**：Use the globe in the top right of Settings to switch languages. Your choice is saved.
 
 ## A little duck, in real use.
 
-The Settings and menu bar screenshots were supplied by the maintainer while testing 1.2-beta.1 and show the new 1.2 features. The interface is in Simplified Chinese; ⌥D is a custom shortcut, while the default is ⌃⌥V.
+The maintainer supplied the Settings screenshot while testing 1.2.3-beta.5; it shows the language switcher in the top right. The other screenshots are from 1.2-beta.1. ⌥D is a custom shortcut; the default is ⌃⌥V.
 
 ### Settings window
 
 <img src="docs/assets/settings.png" alt="Settings window" width="560">
 
-Switch input modes and choose Medium, Fast or Very Fast in Settings, alongside shortcut and launch-at-login options.
+Click the globe in the top right to choose Simplified Chinese, Traditional Chinese or English. Settings also includes input mode, speed, shortcut and launch-at-login controls.
 
 ### System input sources
 
@@ -91,7 +93,7 @@ Choose “退出复制鸭” (Quit CopyDuck) in its menu. Before uninstalling, d
 
 ## Version history
 
-1.2.2 fixes startup process failures and repeated launches that cause excessive resource usage, and fixes Settings failing to open. 1.2.1 improves first-trigger behavior in Word, prevents unintended input cancellation, and strengthens resource cleanup when cancelling input or closing Settings. 1.2 adds Normal / Simulated Typing and three speeds; 1.1 fixes component startup and centers the icons; 1.0 preserves the original feature release.
+1.2.3 fixes intermittent input failures after automatic input-method switching in Safari, filters repeated shortcut presses while the key is held, and adds Simplified Chinese, Traditional Chinese and English interfaces. 1.2.2 fixes startup process failures and repeated launches that cause excessive resource usage, and fixes Settings failing to open. 1.2.1 improves first-trigger behavior in Word, prevents unintended input cancellation, and strengthens resource cleanup when cancelling input or closing Settings. 1.2 adds Normal / Simulated Typing and three speeds; 1.1 fixes component startup and centers the icons; 1.0 preserves the original feature release.
 
 Git history preserves stable and beta version tags. Maintain future changes on main. See the release workflow in [the development guide](DEVELOPMENT.md).
 
@@ -112,7 +114,7 @@ zsh scripts/test_typing.sh
 zsh scripts/test_icons.sh
 ```
 
-Generate an App ZIP and a drag-to-install DMG:
+Generate an App ZIP and a drag-to-install DMG (packaging dependencies require Python 3.10 or newer):
 
 ```sh
 zsh scripts/package.sh

diff --git a/README.zh-Hant.md b/README.zh-Hant.md
@@ -26,6 +26,7 @@ Apple Silicon · 建置最低版本 macOS 14 · 僅在 macOS 27.0.1 上驗證
 
 | 版本 | 下載 | 說明 |
 | --- | --- | --- |
+| 1.2.3 | [DMG](https://github.com/yuanruoyu515/CopyDuck/releases/download/v1.2.3/CopyDuck-1.2.3-arm64.dmg) · [App 壓縮檔](https://github.com/yuanruoyu515/CopyDuck/releases/download/v1.2.3/CopyDuck-1.2.3-arm64.app.zip) | [版本說明](https://github.com/yuanruoyu515/CopyDuck/releases/tag/v1.2.3) |
 | 1.2.2 | [DMG](https://github.com/yuanruoyu515/CopyDuck/releases/download/v1.2.2/CopyDuck-1.2.2-arm64.dmg) · [App 壓縮檔](https://github.com/yuanruoyu515/CopyDuck/releases/download/v1.2.2/CopyDuck-1.2.2-arm64.app.zip) | [版本說明](https://github.com/yuanruoyu515/CopyDuck/releases/tag/v1.2.2) |
 | 1.2.1 | [DMG](https://github.com/yuanruoyu515/CopyDuck/releases/download/v1.2.1/CopyDuck-1.2.1-arm64.dmg) · [App 壓縮檔](https://github.com/yuanruoyu515/CopyDuck/releases/download/v1.2.1/CopyDuck-1.2.1-arm64.app.zip) | [版本說明](https://github.com/yuanruoyu515/CopyDuck/releases/tag/v1.2.1) |
 | 1.2 | [DMG](https://github.com/yuanruoyu515/CopyDuck/releases/download/v1.2/CopyDuck-1.2-arm64.dmg) · [App 壓縮檔](https://github.com/yuanruoyu515/CopyDuck/releases/download/v1.2/CopyDuck-1.2-arm64.app.zip) | [版本說明](https://github.com/yuanruoyu515/CopyDuck/releases/tag/v1.2) |
@@ -40,16 +41,17 @@ Apple Silicon · 建置最低版本 macOS 14 · 僅在 macOS 27.0.1 上驗證
 - **文字留在本機**：按快捷鍵時才讀取剪貼簿，不儲存歷史，不連接網路。
 - **模擬輸入**：在設定或選單列切換一般模式／模擬輸入。中速、快速、特別快約為每秒 5、10、20 字，標點與換行稍作停頓。會記住模式和速度；速度調整從下次輸入生效。再次按快捷鍵、手動打字或切換輸入位置即可停止，已輸入的文字會保留。
 - **輸入穩定與資源清理**：改善 Word 首次觸發與模擬輸入誤停。關閉設定時釋放介面；輸入結束或取消後清理文字參照、回呼與計時任務。
+- **三語介面**：點選設定視窗右上角的地球圖示切換語言，選擇會自動儲存。
 
 ## 真實介面，輕巧直觀。
 
-設定視窗與選單列截圖由維護者試用 1.2-beta.1 時提供，展示 1.2 新增功能。介面為簡體中文；⌥D 是自訂快捷鍵，預設為 ⌃⌥V。
+設定視窗截圖由維護者試用 1.2.3-beta.5 時提供，展示右上角的語言切換；其餘截圖來自 1.2-beta.1。⌥D 是自訂快捷鍵，預設為 ⌃⌥V。
 
 ### 設定視窗
 
 <img src="docs/assets/settings.png" alt="設定視窗" width="560">
 
-在設定中切換輸入模式，選擇中速、快速或特別快，並調整快捷鍵與登入時啟動。
+點選右上角地球圖示，可切換简体中文、繁體中文或 English；也可調整輸入模式、速度、快速鍵及登入時啟動。
 
 ### 系統輸入法列表
 
@@ -91,7 +93,7 @@ Apple Silicon · 建置最低版本 macOS 14 · 僅在 macOS 27.0.1 上驗證
 
 ## 版本紀錄
 
-1.2.2 修復程序無法正確執行、重複啟動造成大量資源占用的問題，並修復設定視窗無法正常開啟。 1.2.1 改善 Word 首次觸發與輸入誤停，強化取消任務與關閉設定時的記憶體清理。1.2 新增一般模式／模擬輸入切換與三段打字速度；1.1 修復元件自動啟動並調整圖示；1.0 保留最初的功能版本。
+1.2.3 修復 Safari 自動切換輸入法後偶爾無法輸入的問題，過濾按住快速鍵時的重複觸發，並新增簡體中文、繁體中文和 English 介面。 1.2.2 修復程序無法正確執行、重複啟動造成大量資源占用的問題，並修復設定視窗無法正常開啟。 1.2.1 改善 Word 首次觸發與輸入誤停，強化取消任務與關閉設定時的記憶體清理。1.2 新增一般模式／模擬輸入切換與三段打字速度；1.1 修復元件自動啟動並調整圖示；1.0 保留最初的功能版本。
 
 Git 歷史保留各正式版本與 beta 標籤；後續修改在 main 分支維護。發佈流程請見 [開發說明](DEVELOPMENT.md).
 
@@ -112,7 +114,7 @@ zsh scripts/test_typing.sh
 zsh scripts/test_icons.sh
 ```
 
-產生 App 壓縮檔與可拖曳安裝的 DMG：
+產生 App 壓縮檔與拖曳安裝的 DMG（打包依賴需要 Python 3.10 以上）：
 
 ```sh
 zsh scripts/package.sh

diff --git a/README.md b/README.md
@@ -26,6 +26,7 @@ Apple Silicon · 构建最低版本 macOS 14 · 仅在 macOS 27.0.1 上验证
 
 | 版本 | 下载 | 说明 |
 | --- | --- | --- |
+| 1.2.3 | [DMG](https://github.com/yuanruoyu515/CopyDuck/releases/download/v1.2.3/CopyDuck-1.2.3-arm64.dmg) · [App 压缩包](https://github.com/yuanruoyu515/CopyDuck/releases/download/v1.2.3/CopyDuck-1.2.3-arm64.app.zip) | [发布说明](https://github.com/yuanruoyu515/CopyDuck/releases/tag/v1.2.3) |
 | 1.2.2 | [DMG](https://github.com/yuanruoyu515/CopyDuck/releases/download/v1.2.2/CopyDuck-1.2.2-arm64.dmg) · [App 压缩包](https://github.com/yuanruoyu515/CopyDuck/releases/download/v1.2.2/CopyDuck-1.2.2-arm64.app.zip) | [发布说明](https://github.com/yuanruoyu515/CopyDuck/releases/tag/v1.2.2) |
 | 1.2.1 | [DMG](https://github.com/yuanruoyu515/CopyDuck/releases/download/v1.2.1/CopyDuck-1.2.1-arm64.dmg) · [App 压缩包](https://github.com/yuanruoyu515/CopyDuck/releases/download/v1.2.1/CopyDuck-1.2.1-arm64.app.zip) | [发布说明](https://github.com/yuanruoyu515/CopyDuck/releases/tag/v1.2.1) |
 | 1.2 | [DMG](https://github.com/yuanruoyu515/CopyDuck/releases/download/v1.2/CopyDuck-1.2-arm64.dmg) · [App 压缩包](https://github.com/yuanruoyu515/CopyDuck/releases/download/v1.2/CopyDuck-1.2-arm64.app.zip) | [发布说明](https://github.com/yuanruoyu515/CopyDuck/releases/tag/v1.2) |
@@ -40,16 +41,17 @@ Apple Silicon · 构建最低版本 macOS 14 · 仅在 macOS 27.0.1 上验证
 - **文字留在本机**：按快捷键时才读取剪贴板，不保存历史，不连接网络。
 - **模拟输入**：在设置或菜单栏切换普通模式／模拟输入。中速、快速、特别快约为每秒 5、10、20 字，标点和换行稍作停顿。模式和速度会记住；速度调整从下次输入生效。再次按快捷键、手动打字或切换输入位置可停止，已输入的文字会保留。
 - **输入稳定与资源清理**：改善 Word 首次触发和模拟输入误停。关闭设置时释放界面；输入结束或取消后清理文字引用、回调和定时任务。
+- **三语界面**：点击设置窗口右上角的地球图标切换语言，选择会自动保存。
 
 ## 真实界面，轻巧直观。
 
-设置窗口和菜单栏截图由维护者试用 1.2-beta.1 时提供，展示 1.2 新增功能。界面为简体中文；⌥D 是自定义快捷键，默认是 ⌃⌥V。
+设置窗口截图由维护者试用 1.2.3-beta.5 时提供，展示右上角的语言切换；其余截图来自 1.2-beta.1。⌥D 是自定义快捷键，默认是 ⌃⌥V。
 
 ### 设置窗口
 
 <img src="docs/assets/settings.png" alt="设置窗口" width="560">
 
-在设置中切换输入模式，选择中速、快速或特别快，并调整快捷键和开机启动。
+点击右上角地球图标，可切换简体中文、繁體中文或 English；也可调整输入模式、速度、快捷键和开机启动。
 
 ### 系统输入法列表
 
@@ -91,7 +93,7 @@ Apple Silicon · 构建最低版本 macOS 14 · 仅在 macOS 27.0.1 上验证
 
 ## 版本记录
 
-1.2.2 修复进程无法正确运行、重复启动造成大量资源占用的问题，并修复设置窗口无法正常打开。 1.2.1 改善 Word 首次触发和输入误停，强化取消任务与关闭设置时的内存清理。1.2 增加普通模式／模拟输入切换和三档打字速度；1.1 修复组件自动启动并调整图标；1.0 保留最初的功能版本。
+1.2.3 修复 Safari 自动切换输入法后偶尔无法输入的问题，过滤按住快捷键时的重复触发，并新增简体中文、繁體中文和 English 界面。 1.2.2 修复进程无法正确运行、重复启动造成大量资源占用的问题，并修复设置窗口无法正常打开。 1.2.1 改善 Word 首次触发和输入误停，强化取消任务与关闭设置时的内存清理。1.2 增加普通模式／模拟输入切换和三档打字速度；1.1 修复组件自动启动并调整图标；1.0 保留最初的功能版本。
 
 Git 历史保留各正式版本与 beta 标签；后续修改在 main 分支维护。发布流程见 [开发说明](DEVELOPMENT.md).
 
@@ -112,7 +114,7 @@ zsh scripts/test_typing.sh
 zsh scripts/test_icons.sh
 ```
 
-生成 App 压缩包和带拖拽布局的 DMG：
+生成 App 压缩包和带拖拽布局的 DMG（打包依赖要求 Python 3.10 及以上）：
 
 ```sh
 zsh scripts/package.sh

diff --git a/CHANGELOG.md b/CHANGELOG.md
@@ -1,5 +1,28 @@
 # 版本记录 / 版本紀錄 / Changelog
 
+## 1.2.3 — 2026-11-03
+
+**简体中文**
+
+- 修复 Safari 自动切换输入法后偶尔无法输入的问题，避免后台输入会话覆盖目标连接。
+- 按住快捷键只触发一次，松开后再次按下仍可停止输入。
+- 设置窗口右上角新增语言图标，可切换简体中文、繁體中文和 English，并保存选择。
+- 正式版构建编号 15，沿用 beta.5 的功能，更新 README 截图和下载链接。
+
+**繁體中文**
+
+- 修復 Safari 自動切換輸入法後偶爾無法輸入的問題，避免背景輸入工作階段覆蓋目標連線。
+- 按住快速鍵只觸發一次，放開後再次按下仍可停止輸入。
+- 設定視窗右上角新增語言圖示，可切換简体中文、繁體中文和 English，並儲存選擇。
+- 正式版組建編號 15，沿用 beta.5 的功能，更新 README 截圖與下載連結。
+
+**English**
+
+- Fix intermittent input failures after automatic input-method switching in Safari; prevent background input sessions from replacing the target connection.
+- Trigger once while the shortcut is held. Release and press again to stop typing.
+- Add a language icon in the top right of Settings with saved choices for Simplified Chinese, Traditional Chinese and English.
+- Stable build 15 retains the features from beta.5 and updates the README screenshot and download links.
+
 ## 1.2.3-beta.5 — 2026-11-03（本地测试 / 本機測試 / local testing）
 
 **简体中文**
